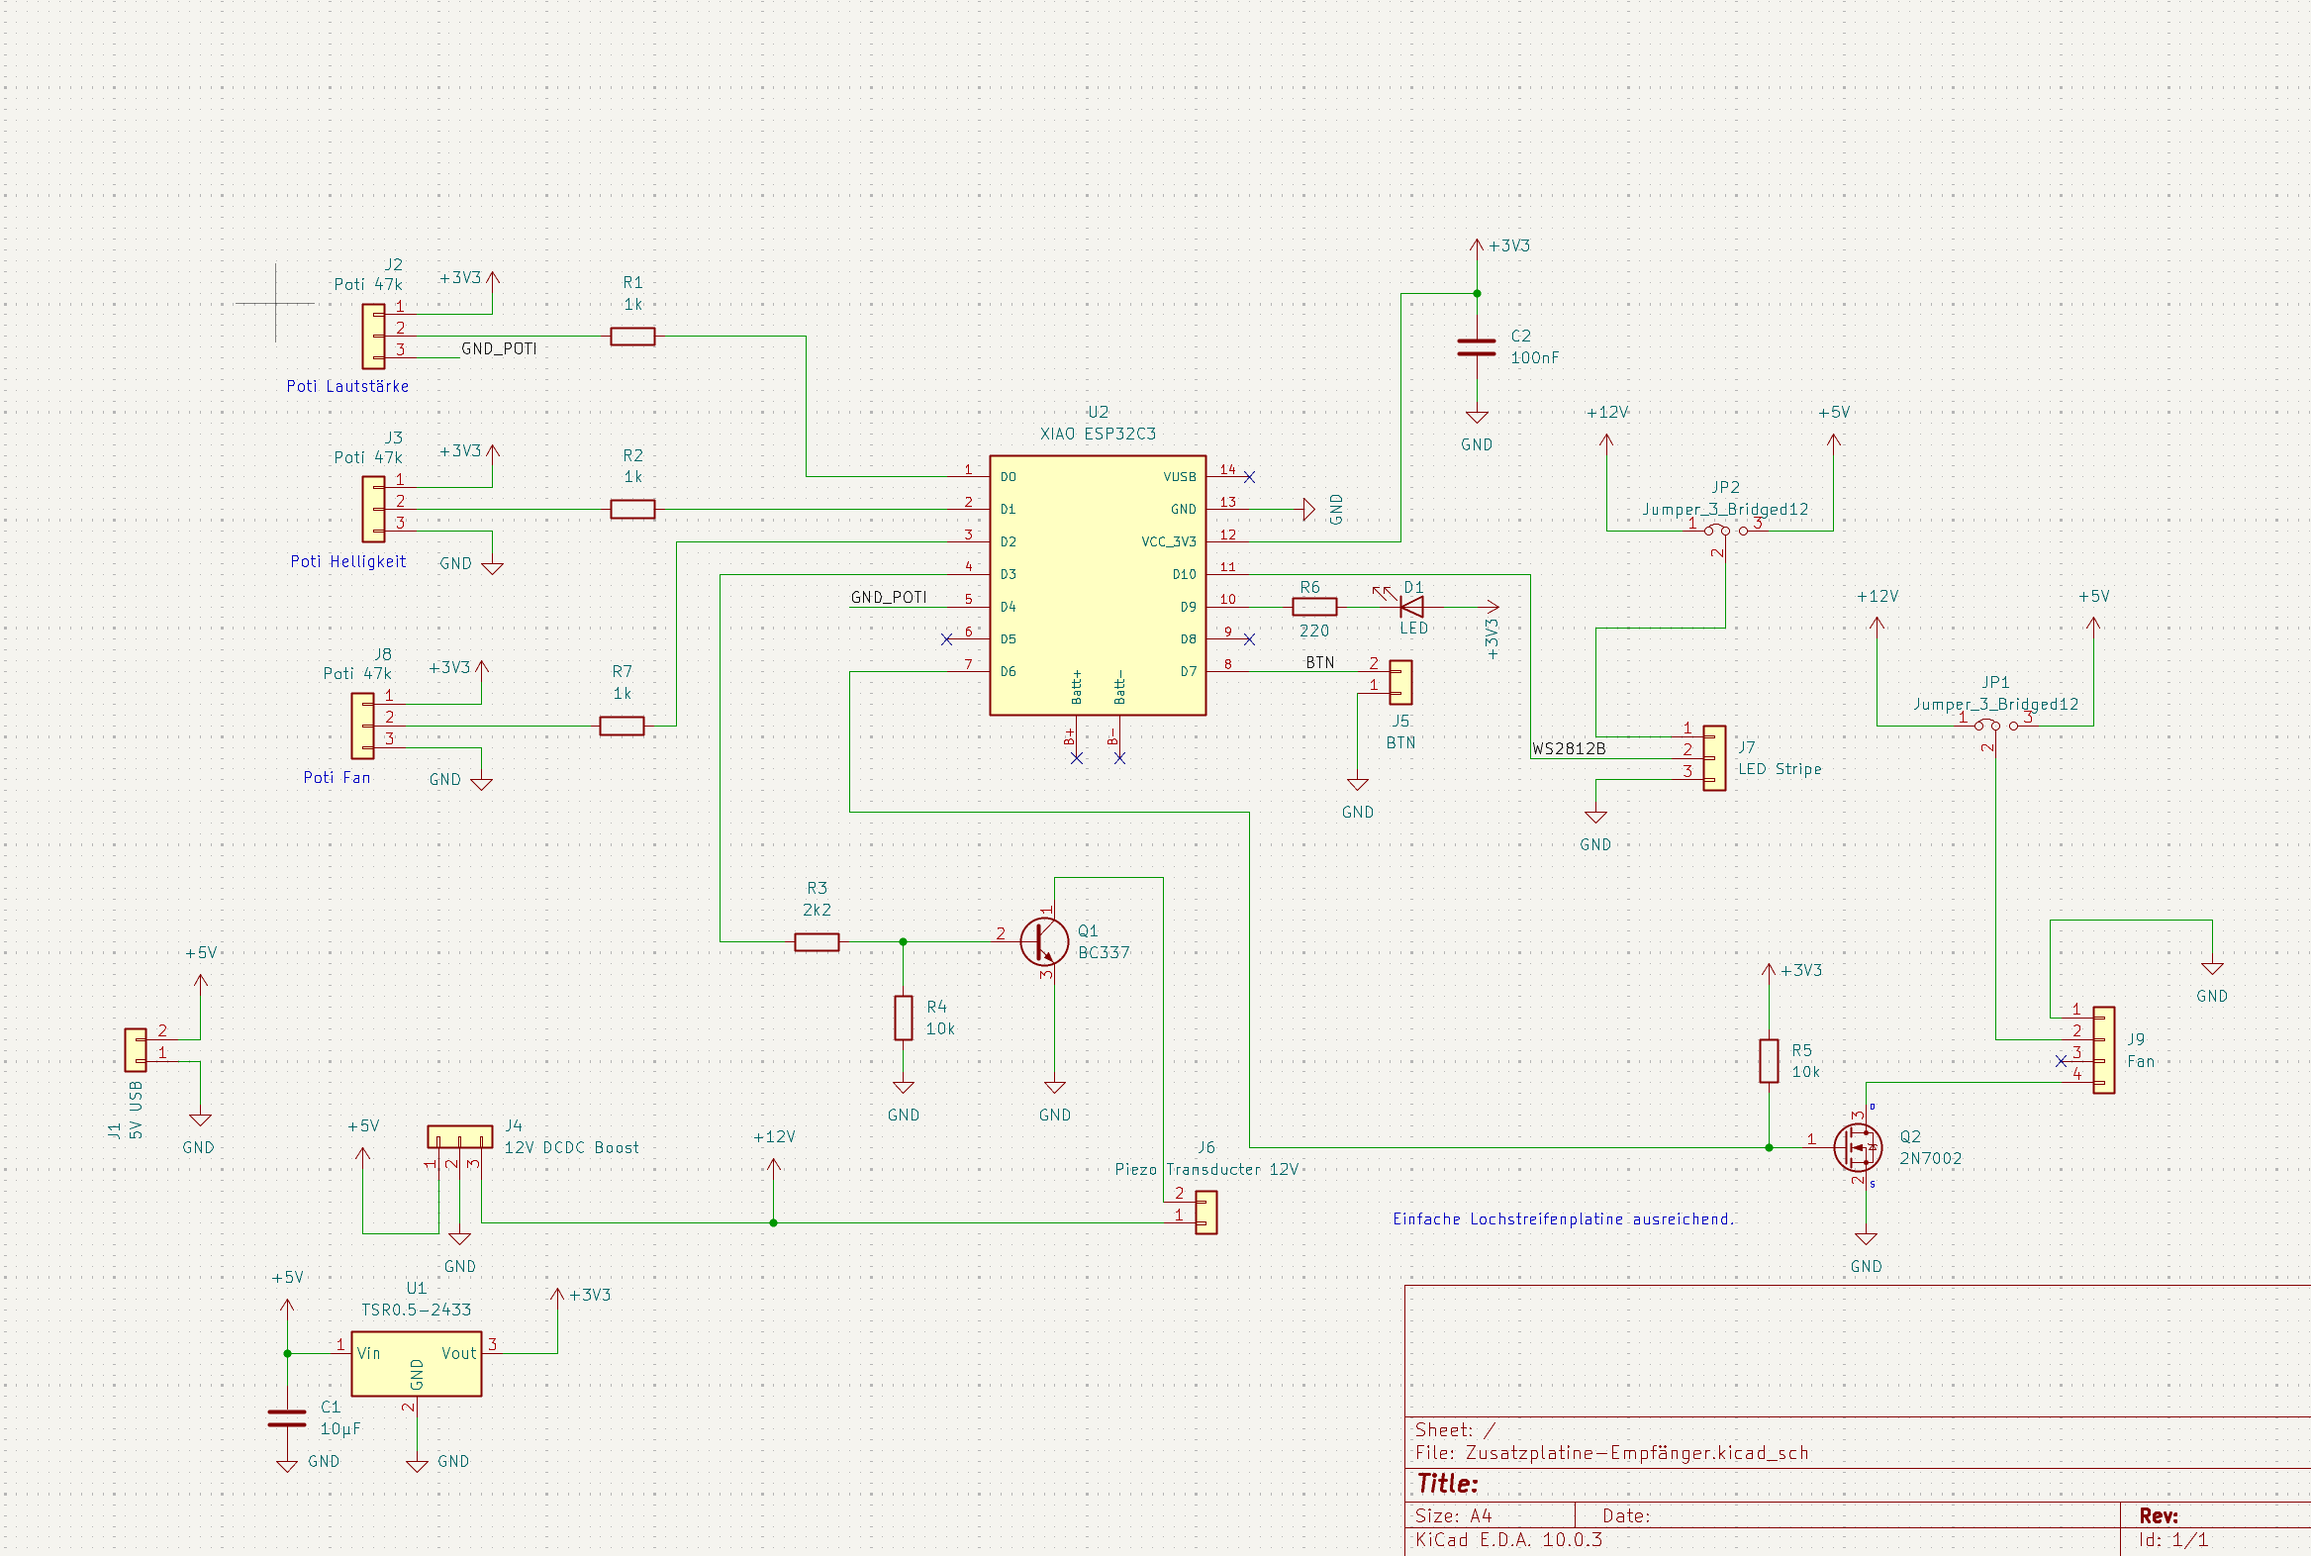
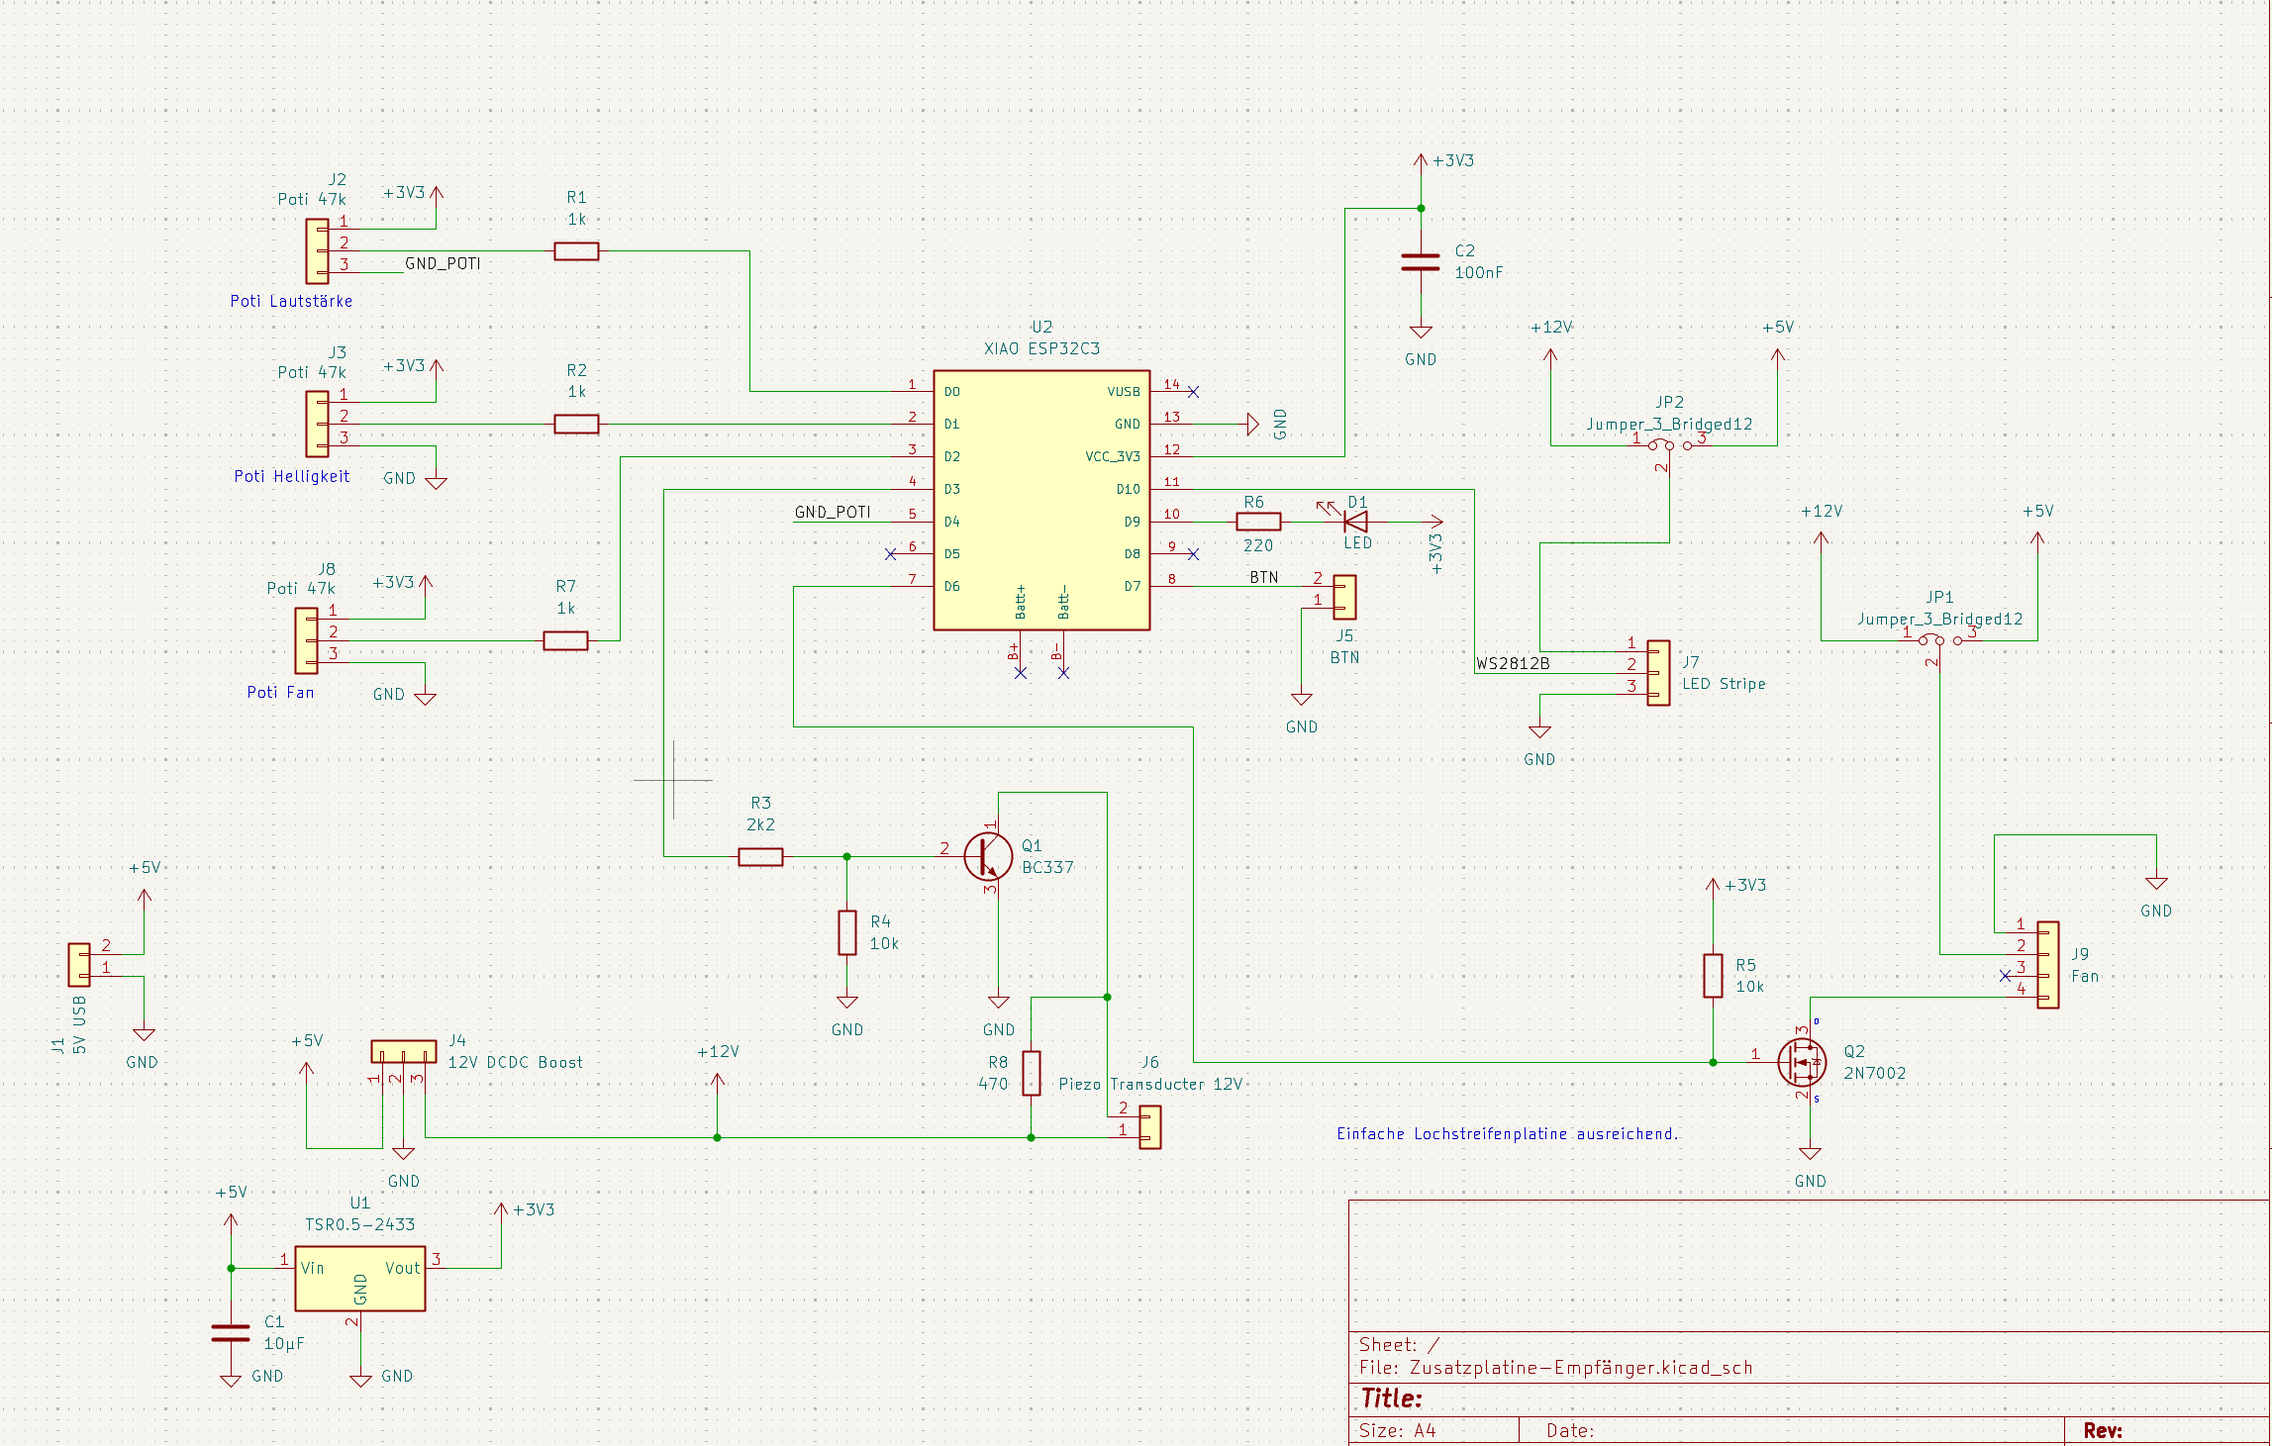
Buzzer-Lautstärke: R8 (Entlade-Pfad) + Treiberfrequenz auf Resonanz 3250 Hz
Ursache des kaum hörbaren Buzzers: der Piezo (J6) am Low-Side-BC337 hatte keinen
Lade-/Entlade-Pfad. Als reine Kapazität ohne Rückweg am Collector konnte er nicht
schwingen — nur ein leises Brummen, unabhängig von Frequenz und Duty.

- HW: R8 (~1k) parallel zum Piezo / Collector→+12V ergänzt; gibt den 0↔12V-Hub
  (Zusatzplatine-Empfänger.kicad_sch, Empfaenger-Lochraster.diy, PNG-Exporte)
- FW: BUZZER_FREQUENCY_HZ 2700 -> 3250 (Resonanz CPS-4013-110PM) — am lautesten
  genau bei Resonanz (Config.h, BuzzerManager.h)

diff --git a/EmpfaengerV3/BuzzerManager.h b/EmpfaengerV3/BuzzerManager.h
@@ -5,7 +5,8 @@
  * PORT aus V2 (Empfaenger/BuzzerManager.h): API unverändert (beep/update/stop),
  * intern ersetzt LEDC-PWM das AVR-digitalWrite — V3 treibt einen 12-V-Piezo-
  * Transducer über BC337 (R-9):
- * - Tonfrequenz = LEDC-Frequenz (2,7 kHz wie V2)
+ * - Tonfrequenz = LEDC-Frequenz = Resonanzfrequenz des Transducers
+ *   (Config::BUZZER_FREQUENCY_HZ; am lautesten genau bei Resonanz)
  * - Lautstärke = Duty-Cycle 0…50 % (setVolume, vom Lautstärke-Poti — FR-021)
  */
 
@@ -28,9 +29,9 @@ public:
     /**
      * @brief Konstruktor
      * @param pin GPIO-Pin für Buzzer (LEDC-fähig)
-     * @param frequency Frequenz des Piezo-Tons in Hz (Standard: 2700Hz)
+     * @param frequency Frequenz des Piezo-Tons in Hz = Transducer-Resonanz (Standard: 3250Hz)
      */
-    BuzzerManager(uint8_t pin, uint16_t frequency = 2700);
+    BuzzerManager(uint8_t pin, uint16_t frequency = 3250);
 
     /**
      * @brief Initialisiert den Buzzer (LEDC-Kanal konfigurieren, stumm)

diff --git a/EmpfaengerV3/Config.h b/EmpfaengerV3/Config.h
@@ -168,7 +168,10 @@ namespace Timing {
     constexpr uint8_t DEBOUNCE_MS = 50;  // 50ms Entprellzeit
 
     // Buzzer-Feedback
-    constexpr uint16_t BUZZER_FREQUENCY_HZ = 2700;  // Frequenz des Piezo-Tons
+    // Resonanzfrequenz des Transducers (Datenblatt CPS-4013-110PM, rated 3250 Hz):
+    // ein Piezo ist GENAU bei seiner Resonanz am lautesten — daneben (vorher 2700 Hz)
+    // kaum hörbar. Das ist der Lautstärke-Hebel.
+    constexpr uint16_t BUZZER_FREQUENCY_HZ = 3250;
 
     // Poti-Abtastung (alle Regler live, ≥ 10 Hz — FR-021/FR-022/FR-023)
     constexpr uint16_t POTI_UPDATE_INTERVAL_MS = 100;  // 10 Hz
